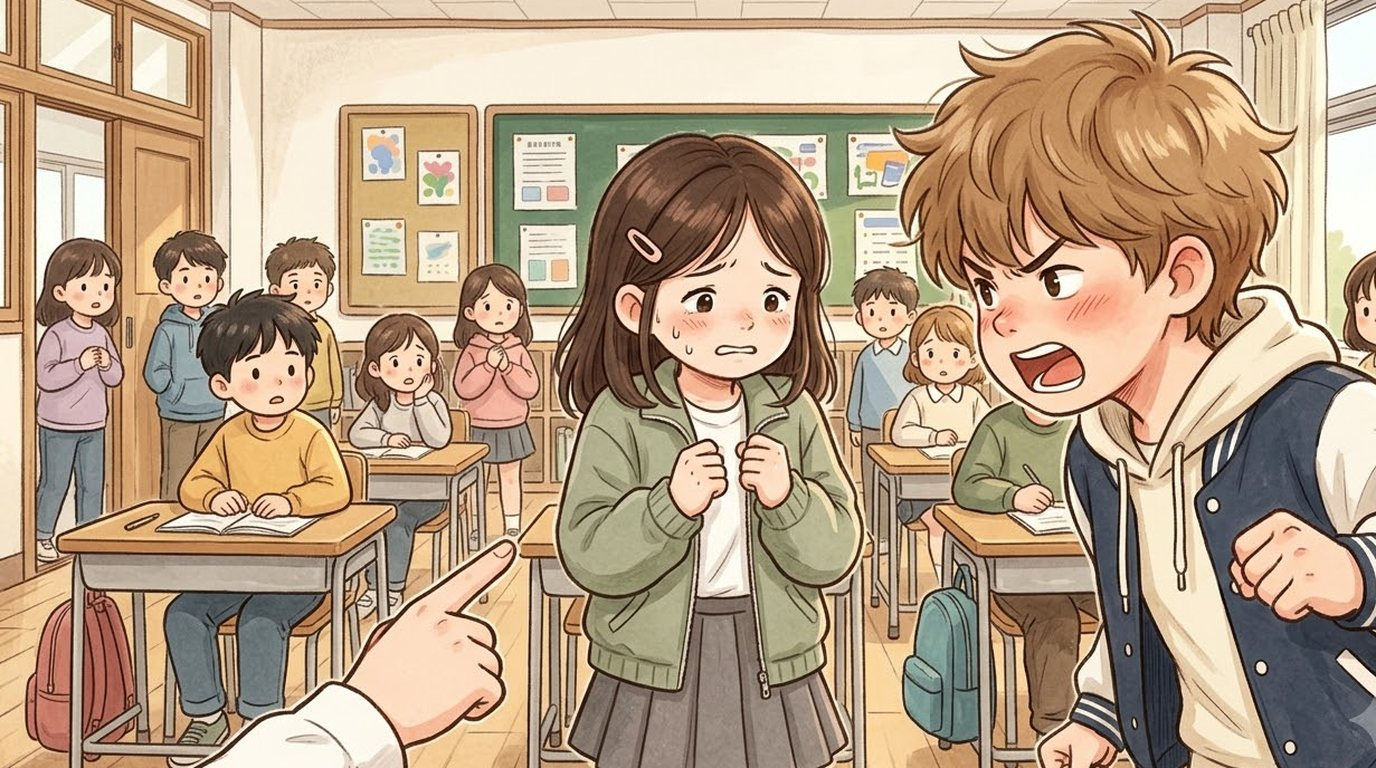
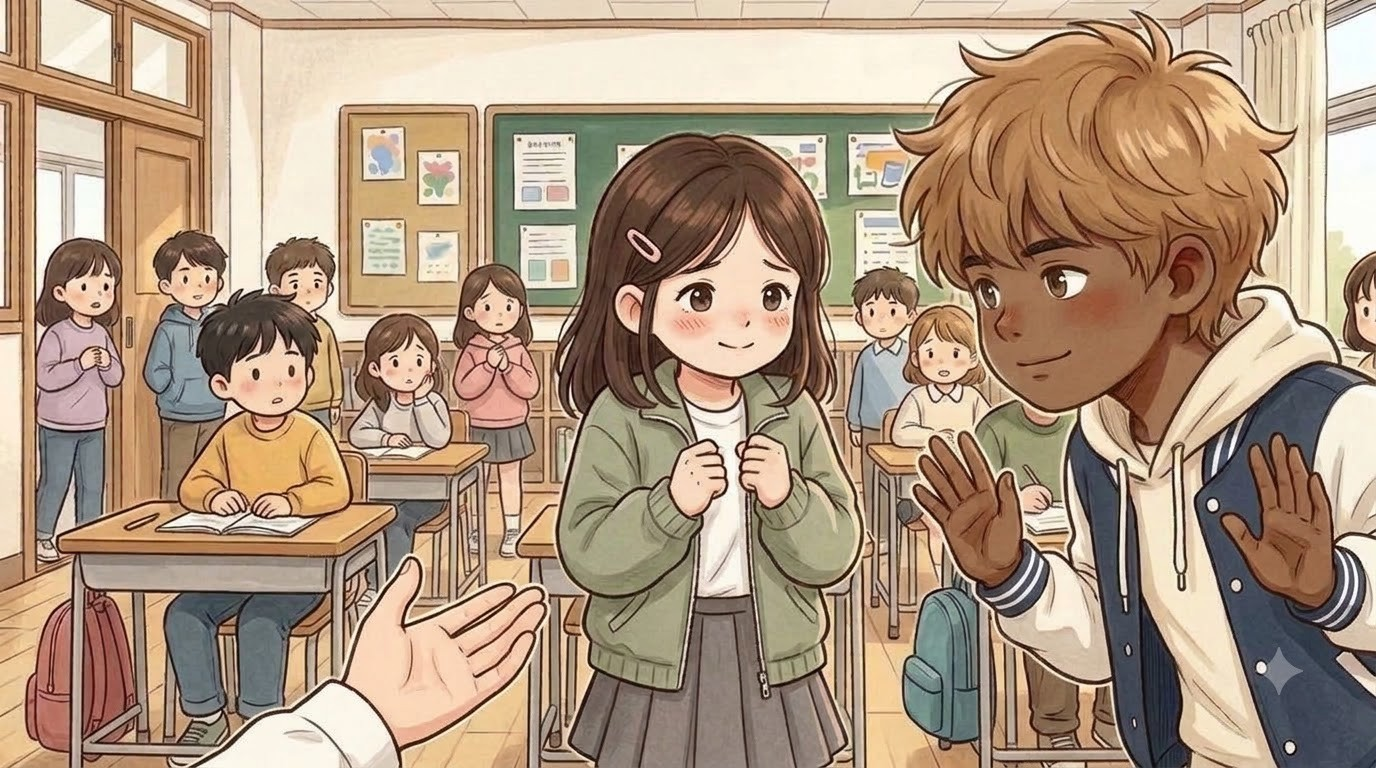
Seah: 3 pictures redrawn for the human-rights revision - Day 3 D the class looks at the hero who spoke up and Seah is not alone (02f), Day 9 C Jiho pats the floor to make room for Haram without touching anyone and Seah moves over too (08d), Day 14 D no fight: open hand, Jiho says 'okay, okay', Seah 

diff --git a/index.html b/index.html
@@ -119,14 +119,14 @@ body,button{word-break:keep-all;overflow-wrap:break-word}
 <div id="fader"></div>
 <script>
 // same address, newest version: if the page this phone has kept is older than the one online, fetch the new one and reopen
-const BUILD='1104082800';
+const BUILD='1104094527';
 try{fetch(location.pathname,{cache:'no-store'}).then(r=>r.text()).then(t=>{const m=t.match(/const BUILD='(\d+)'/);if(m&&m[1]!==BUILD&&sessionStorage.getItem('upd')!==m[1]){sessionStorage.setItem('upd',m[1]);fetch(location.pathname,{cache:'reload'}).then(()=>location.reload())}}).catch(()=>{})}catch(e){}
 </script>
-<script src="i18n.js?v=1104082800"></script>
-<script src="i18n_prologue_v2.js?v=1104082800"></script>
-<script src="day2/i18n_engine.js?v=1104082800"></script>
-<script src="day2/data.js?v=1104082800"></script>
-<script src="day3/data.js?v=1104082800"></script>
+<script src="i18n.js?v=1104094527"></script>
+<script src="i18n_prologue_v2.js?v=1104094527"></script>
+<script src="day2/i18n_engine.js?v=1104094527"></script>
+<script src="day2/data.js?v=1104094527"></script>
+<script src="day3/data.js?v=1104094527"></script>
 <script>
 // ---------- data ----------
 const MW=1672,MH=941,KID=180;
@@ -537,28 +537,28 @@ function pickHero(){const m=document.getElementById('modal'),c=document.getEleme
  c.innerHTML=`<h2>${tr('괴짜교실 반장되기')}</h2><p>${tr('말 한마디 못 하는 전학생,<br>반장 선거에 나가다.')}</p><p style="margin-top:14px">${tr('누구로 할까요?')}</p>${(()=>{const s=loadSave();return s&&s.day>=2&&s.mode===UI+'-'+LANG?`<p><button class="big" id="cont">${tr(s.day+'일차부터 이어 하기')}</button></p>`:''})()}<div class="pick heroes"><button data-h="hero_f"><img src="faces/hero_f_smile.jpg" alt="여자 주인공"></button><button data-h="hero_m"><img src="faces/hero_m_smile.jpg" alt="남자 주인공"></button></div>`;
  m.classList.add('on');{const cb=document.getElementById('cont');if(cb)cb.onclick=()=>{const s=loadSave();HERO=s.hero;Object.assign(HEART,s.heart||{});(s.found||[]).forEach(k=>FOUND.add(k));HEART_D1={...HEART};chime();(typeof contGame==='function'?contGame(s):startDay(Math.min(s.day,Object.keys(window.D3||{}).length?3:2)))}}c.querySelectorAll('.pick button').forEach(b=>b.onclick=()=>{HERO=b.dataset.h;m.classList.remove('on');chime();bgm('day');load('home_am');say([['nar','','이사 온 다음 날 아침. 아직 풀지 못한 상자들이 쌓여 있다.'],['think','sad','(오늘부터 새 학교야. 여기 말도 아직 서툰데…….)'],['think','smile','({m}한테 인사하고 학교 가야지.)']],morning)})}
 </script>
-<script src="day2/engine.js?v=1104082800"></script>
-<script src="day2/ep_minho.js?v=1104082800"></script>
-<script src="day2/meet.js?v=1104082800"></script>
-<script src="day2/ep_sua.js?v=1104082800"></script>
-<script src="day2/ep_hangyeol.js?v=1104082800"></script>
-<script src="day2/ep_siwoo.js?v=1104082800"></script>
-<script src="day2/ep_haram.js?v=1104082800"></script>
-<script src="day2/ep_jiho.js?v=1104082800"></script>
-<script src="day2/ep_hyeeun.js?v=1104082800"></script>
-<script src="day2/ep_haneul.js?v=1104082800"></script>
-<script src="day2/ep_junho.js?v=1104082800"></script>
-<script src="day2/ep_yuna.js?v=1104082800"></script>
-<script src="day2/ep_yena.js?v=1104082800"></script>
-<script src="day2/ep_haeun.js?v=1104082800"></script>
-<script src="day2/ep_youngmin.js?v=1104082800"></script>
-<script src="day2/ep_seah.js?v=1104082800"></script>
-<script src="day2/ep_jihoon.js?v=1104082800"></script>
-<script src="words_ja_ru.js?v=1104082800"></script>
-<script src="day2/mybag.js?v=1104082800"></script>
-<script src="day2/spots.js?v=1104082800"></script>
-<script src="day2/textfit.js?v=1104082800"></script>
-<script src="day2/tester.js?v=1104082800"></script>
+<script src="day2/engine.js?v=1104094527"></script>
+<script src="day2/ep_minho.js?v=1104094527"></script>
+<script src="day2/meet.js?v=1104094527"></script>
+<script src="day2/ep_sua.js?v=1104094527"></script>
+<script src="day2/ep_hangyeol.js?v=1104094527"></script>
+<script src="day2/ep_siwoo.js?v=1104094527"></script>
+<script src="day2/ep_haram.js?v=1104094527"></script>
+<script src="day2/ep_jiho.js?v=1104094527"></script>
+<script src="day2/ep_hyeeun.js?v=1104094527"></script>
+<script src="day2/ep_haneul.js?v=1104094527"></script>
+<script src="day2/ep_junho.js?v=1104094527"></script>
+<script src="day2/ep_yuna.js?v=1104094527"></script>
+<script src="day2/ep_yena.js?v=1104094527"></script>
+<script src="day2/ep_haeun.js?v=1104094527"></script>
+<script src="day2/ep_youngmin.js?v=1104094527"></script>
+<script src="day2/ep_seah.js?v=1104094527"></script>
+<script src="day2/ep_jihoon.js?v=1104094527"></script>
+<script src="words_ja_ru.js?v=1104094527"></script>
+<script src="day2/mybag.js?v=1104094527"></script>
+<script src="day2/spots.js?v=1104094527"></script>
+<script src="day2/textfit.js?v=1104094527"></script>
+<script src="day2/tester.js?v=1104094527"></script>
 <script>
 // the goal shows big for a few seconds, then folds into a small pill (tap it to open it again)
 {const g=document.getElementById('goal');let t=null;const big=()=>{g.classList.remove('mini');clearTimeout(t);t=setTimeout(()=>g.classList.add('mini'),4000)};
